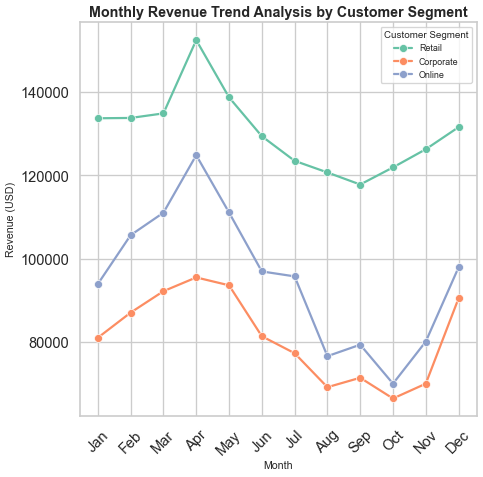
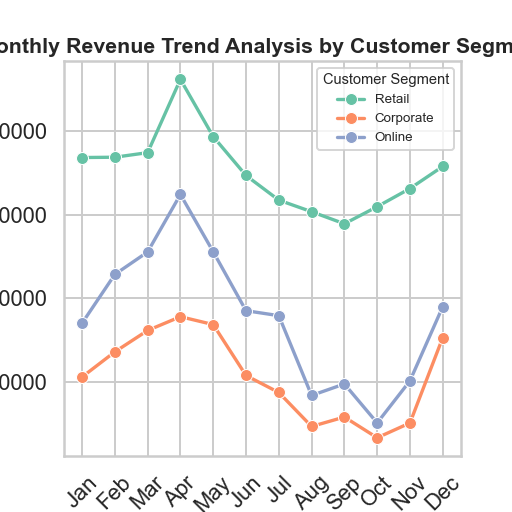
adddddddddddd

diff --git a/chart.py b/chart.py
@@ -32,15 +32,16 @@ df = pd.DataFrame(data, columns=["Month", "Segment", "Revenue"])
 df["Month"] = pd.Categorical(df["Month"], categories=months, ordered=True)
 
 # Create the lineplot
-plt.figure(figsize=(8, 8))
-ax = sns.lineplot(
+fig, ax = plt.subplots(figsize=(8, 8))  # Base figure
+sns.lineplot(
     data=df,
     x="Month",
     y="Revenue",
     hue="Segment",
     marker="o",
     palette="Set2",
-    linewidth=2.5
+    linewidth=2.5,
+    ax=ax
 )
 
 # Customize chart for executive presentation
@@ -50,6 +51,7 @@ plt.ylabel("Revenue (USD)", fontsize=12)
 plt.xticks(rotation=45)
 plt.legend(title="Customer Segment", fontsize=10, title_fontsize=11)
 
-# Save as 512x512 PNG
-plt.savefig("chart.png", dpi=64, bbox_inches="tight")
+# Force EXACT 512x512 pixels → dpi = pixels / inches
+fig.set_size_inches(512/96, 512/96)  # 5.333x5.333 inches
+plt.savefig("chart.png", dpi=96)  # 96 dpi × 5.333 in = 512 px
 plt.close()
